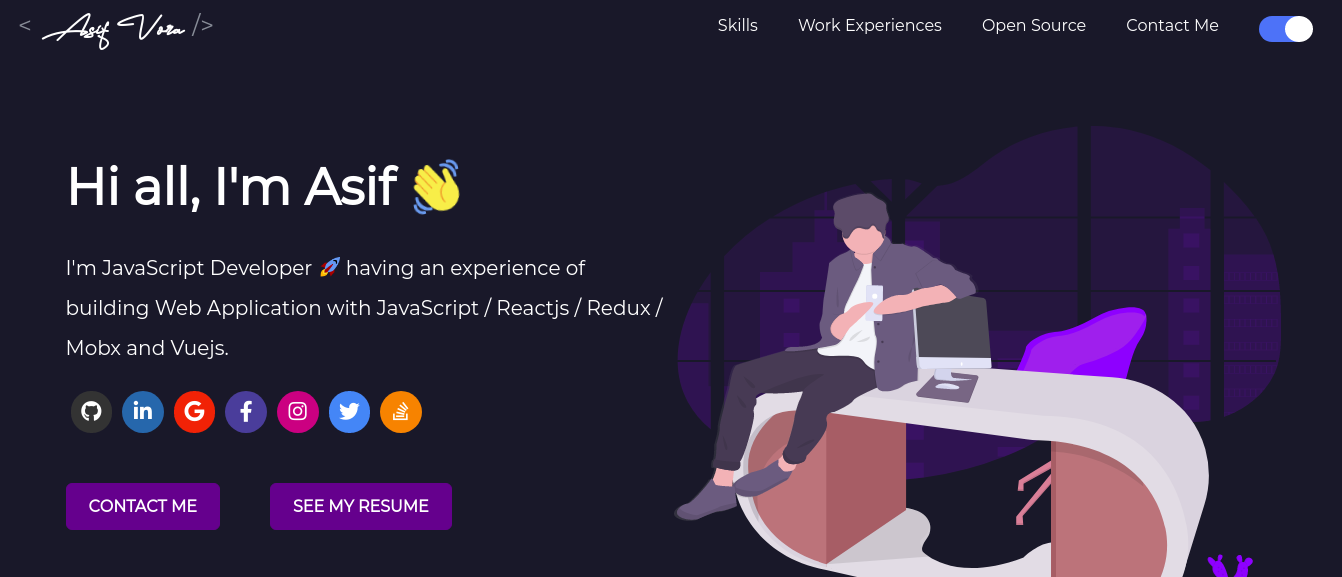
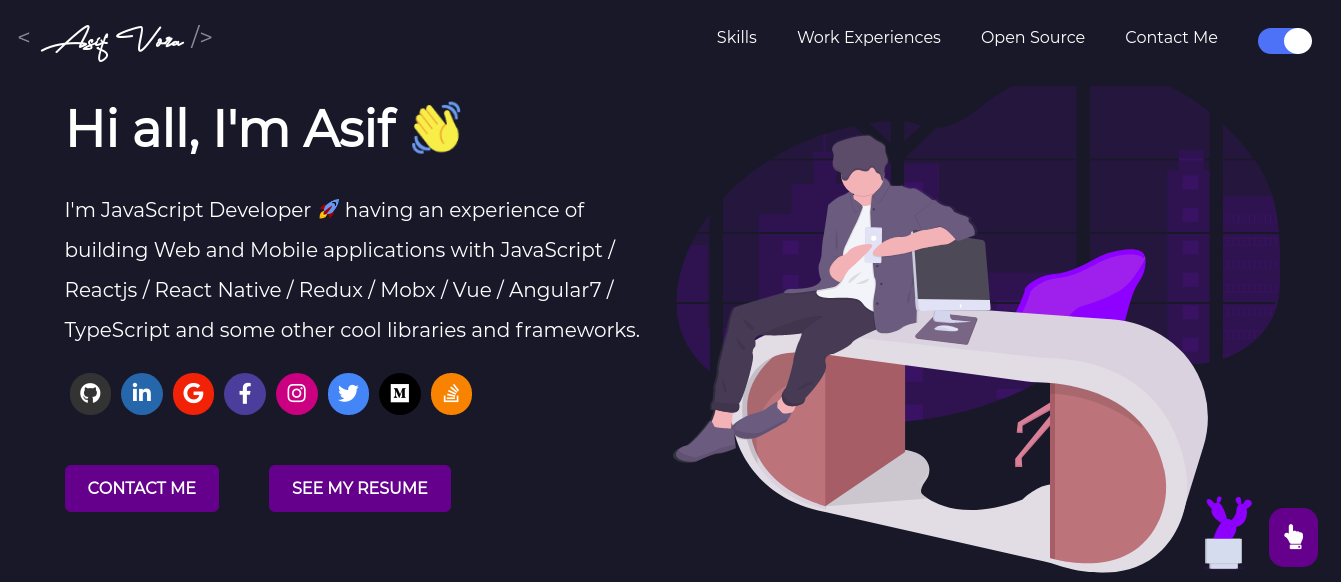
Added educations

diff --git a/src/portfolio.js b/src/portfolio.js
@@ -12,7 +12,7 @@ const greeting = {
   username: "Asif Vora",
   title: "Hi all, I'm Asif",
   subTitle: emoji(
-    "I'm JavaScript Developer 🚀 having an experience of building Web Application with JavaScript / Reactjs / Redux / Mobx and Vuejs."
+    "I'm JavaScript Developer 🚀 having an experience of building Web and Mobile applications with JavaScript / Reactjs / React Native / Redux / Mobx / Vue / Angular7 / TypeScript and some other cool libraries and frameworks."
   ),
   resumeLink:"https://drive.google.com/file/d/1KjrxJCyj47TMQLMPYWktDEE6kjjX7Ik0/view?usp=sharing",
   displayGreeting: true // Set false to hide this section, defaults to true
@@ -25,7 +25,7 @@ const socialMediaLinks = {
   linkedin: "https://www.linkedin.com/in/asif-vora",
   gmail: "asifvora0@gmail.com",
   // gitlab: "https://gitlab.com/",
-  // medium: "https://medium.com/@davidrakosi",
+  medium: "https://medium.com/@asifvora",
   facebook: "https://www.facebook.com/asif.vora.92",
   stackoverflow: "https://stackoverflow.com/users/7833077/asif-vora",
   instagram: 'https://www.instagram.com/007_dark_shadow/',
@@ -37,12 +37,12 @@ const socialMediaLinks = {
 
 const skillsSection = {
   title: "What I do",
-  subTitle: "CRAZY FULL JAVASCRIPT DEVELOPER WHO WANTS TO EXPLORE EVERY TECH STACK",
+  subTitle: "CRAZY FULL STACK JAVASCRIPT DEVELOPER WHO WANTS TO EXPLORE EVERY TECH STACK",
   skills: [
     emoji(
-      "⚡ Develop highly interactive Front end / User Interfaces for your web applications"
+      "⚡ Develop highly interactive Front end / User Interfaces for your web and mobile applications"
     ),
-    emoji("⚡ Progressive Web Applications ( PWA ) in normal Stacks"),
+    emoji("⚡ Progressive Web Applications ( PWA ) in normal and SPA Stacks"),
     emoji(
       "⚡ Integration of third party services such as Firebase/ AWS / Supabase.io"
     )
@@ -65,6 +65,10 @@ https://fontawesome.com/icons?d=gallery */
       fontAwesomeClassname: "fab fa-sass"
     },
     {
+      skillName: "styled component",
+      fontAwesomeClassname: "fas fa-palette"
+    },
+    {
       skillName: "JavaScript",
       fontAwesomeClassname: "fab fa-js"
     },
@@ -73,8 +77,24 @@ https://fontawesome.com/icons?d=gallery */
       fontAwesomeClassname: "fab fa-react"
     },
     {
+      skillName: "react native",
+      fontAwesomeClassname: "fab fa-react"
+    },
+    {
+      skillName: "angular7",
+      fontAwesomeClassname: "fab fa-angular"
+    },
+    {
+      skillName: "vue",
+      fontAwesomeClassname: "fab fa-vuejs"
+    },
+    {
       skillName: "nodejs",
       fontAwesomeClassname: "fab fa-node"
+    },
+    {
+      skillName: "electronjs",
+      fontAwesomeClassname: "fas fa-atom"
     },
     {
       skillName: "npm",
@@ -83,6 +103,26 @@ https://fontawesome.com/icons?d=gallery */
     {
       skillName: "firebase",
       fontAwesomeClassname: "fas fa-fire"
+    },
+    {
+      skillName: "intercom",
+      fontAwesomeClassname: "fab fa-intercom"
+    },
+    {
+      skillName: "git",
+      fontAwesomeClassname: "fab fa-git"
+    },
+    {
+      skillName: "gitlab",
+      fontAwesomeClassname: "fab fa-gitlab"
+    },
+    {
+      skillName: "github",
+      fontAwesomeClassname: "fab fa-github"
+    },
+    {
+      skillName: "bitbucket",
+      fontAwesomeClassname: "fab fa-bitbucket"
     }
   ],
   display: true // Set false to hide this section, defaults to true
@@ -91,26 +131,39 @@ https://fontawesome.com/icons?d=gallery */
 // Education Section
 
 const educationInfo = {
-  display: false, // Set false to hide this section, defaults to true
+  display: true, // Set false to hide this section, defaults to true
   schools: [
     {
-      schoolName: "Harvard University",
-      logo: require("./assets/images/harvardLogo.png"),
-      subHeader: "Master of Science in Computer Science",
-      duration: "September 2017 - April 2019",
-      desc: "Participated in the research of XXX and published 3 papers.",
-      descBullets: [
-        "Lorem ipsum dolor sit amet, consectetur adipiscing elit"
-      ]
+      schoolName: "L.J. Institute Of Engineering and Technology, Ahemedabad (GTU)",
+      logo: require("./assets/images/gtu.jpeg"),
+      subHeader: "Master of Computer Applications",
+      duration: "2015 - 2017",
+      desc: "8.21 CGPA",
+      descBullets: []
     },
     {
-      schoolName: "Stanford University",
-      logo: require("./assets/images/stanfordLogo.png"),
-      subHeader: "Bachelor of Science in Computer Science",
-      duration: "September 2013 - April 2017",
-      desc:
-        "Ranked top 10% in the program. Took courses about Software Engineering, Web Security, Operating Systems, ...",
-      descBullets: ["Lorem ipsum dolor sit amet, consectetur adipiscing elit"]
+      schoolName: "L.N.Patel College of COMP & MANAG, Kalyanpura (HNGU)",
+      logo: require("./assets/images/hngu.jpeg"),
+      subHeader: "Bachelor of Computer Applications",
+      duration: "2012 - 2015",
+      desc: "84.66%",
+      descBullets: []
+    },
+    {
+      schoolName: "Shree Madhymikshala, Viramgam (GHSEB)",
+      logo: require("./assets/images/gseb.jpeg"),
+      subHeader: "HSC",
+      duration: "2010 - 2012",
+      desc: "67.14%",
+      descBullets: []
+    },
+    {
+      schoolName: "New Education High School, Viramgam (GSEB)",
+      logo: require("./assets/images/gseb.jpeg"),
+      subHeader: "SSC",
+      duration: "2009 - 2010",
+      desc: "59.38%",
+      descBullets: []
     }
   ]
 };
@@ -142,10 +195,18 @@ const workExperiences = {
   display: true, //Set it to true to show workExperiences Section
   experience: [
     {
+      role: "Sr. Software Engineer",
+      company: "Simform",
+      companylogo: require("./assets/images/simform.png"),
+      date: "January 2020 – Present",
+      desc: "I'm working as a Sr. Software Engineer for building a web appliactions"
+      // descBullets: []
+    },
+    {
       role: "Software Engineer",
       company: "Simform",
       companylogo: require("./assets/images/simform.png"),
-      date: "June 2019 – Present",
+      date: "June 2019 – December 2020",
       desc: "I'm working as a Software Engineer for building a web appliactions"
       // descBullets: []
     },
@@ -172,7 +233,7 @@ To know how to get github key look at readme.md */
 const openSource = {
   githubConvertedToken: process.env.REACT_APP_GITHUB_TOKEN,
   githubUserName: "asifvora", // Change to your github username to view your profile in Contact Section.
-  showGithubProfile: "true", // Set true or false to show Contact profile using Github, defaults to true
+  showGithubProfile: "false", // Set true or false to show Contact profile using Github, defaults to true
   display: true // Set false to hide this section, defaults to true
 };
 

diff --git a/public/index.html b/public/index.html
@@ -11,11 +11,11 @@
     <meta name="viewport" content="width=device-width, initial-scale=1" />
     <meta name="theme-color" content="#6c63ff" />
     <meta
-      name="Asif Vora Portfolio"
+      name="Asif Vora"
       content="Web site created using create-react-app"
     />
     <link rel="apple-touch-icon" sizes="180x180" href="%PUBLIC_URL%/apple-touch-icon.png?v8=qAJ44G5Bm7">
-    <meta property="og:title" content="Asif Vora Portfolio" />
+    <meta property="og:title" content="Asif Vora" />
     <meta property="og:type" content="website" />
     <meta property="og:url" content="https://developerfolio.js.org/" />
     <meta property="og:image" content="https://developerfolio.js.org/static/media/developerActivity.59389695.svg" />
@@ -25,20 +25,8 @@
       manifest.json provides metadata used when your web app is installed on a
       user's mobile device or desktop. See https://developers.google.com/web/fundamentals/web-app-manifest/
     -->
-    <!-- Global site tag (gtag.js) - Google Analytics -->
-    <script async src="https://www.googletagmanager.com/gtag/js?id=UA-135618960-2"></script>
-    <script>
-      window.dataLayer = window.dataLayer || [];
-      function gtag(){dataLayer.push(arguments);}
-      gtag('js', new Date());
-
-      gtag('config', 'UA-135618960-2');
-    </script>
     <link rel="manifest" href="%PUBLIC_URL%/manifest.json" />
-
     <link rel="stylesheet" href="https://cdn.jsdelivr.net/gh/FortAwesome/Font-Awesome@5.13.0/css/all.min.css">
-
-
     <!--
       Notice the use of %PUBLIC_URL% in the tags above.
       It will be replaced with the URL of the `public` folder during the build.
@@ -48,7 +36,7 @@
       work correctly both with client-side routing and a non-root public URL.
       Learn how to configure a non-root public URL by running `npm run build`.
     -->
-    <title>My Portfolio | 5 Day React Challenge 🚀</title>
+    <title>My Portfolio</title>
   </head>
   <body>
     <noscript>You need to enable JavaScript to run this app.</noscript>

diff --git a/README.md b/README.md
@@ -5,7 +5,7 @@
 ## <a href="https://asifvora-portfolio.netlify.app" target="_blank">LIVE DEMO</a>
 
 ## Description
-This is a ReactJS based personal resume website template for participants of The 6 Figure JavaScript ReactJS Challenge by Clever 
+This is a ReactJS based personal resume website template
 
 ## Credits
 
